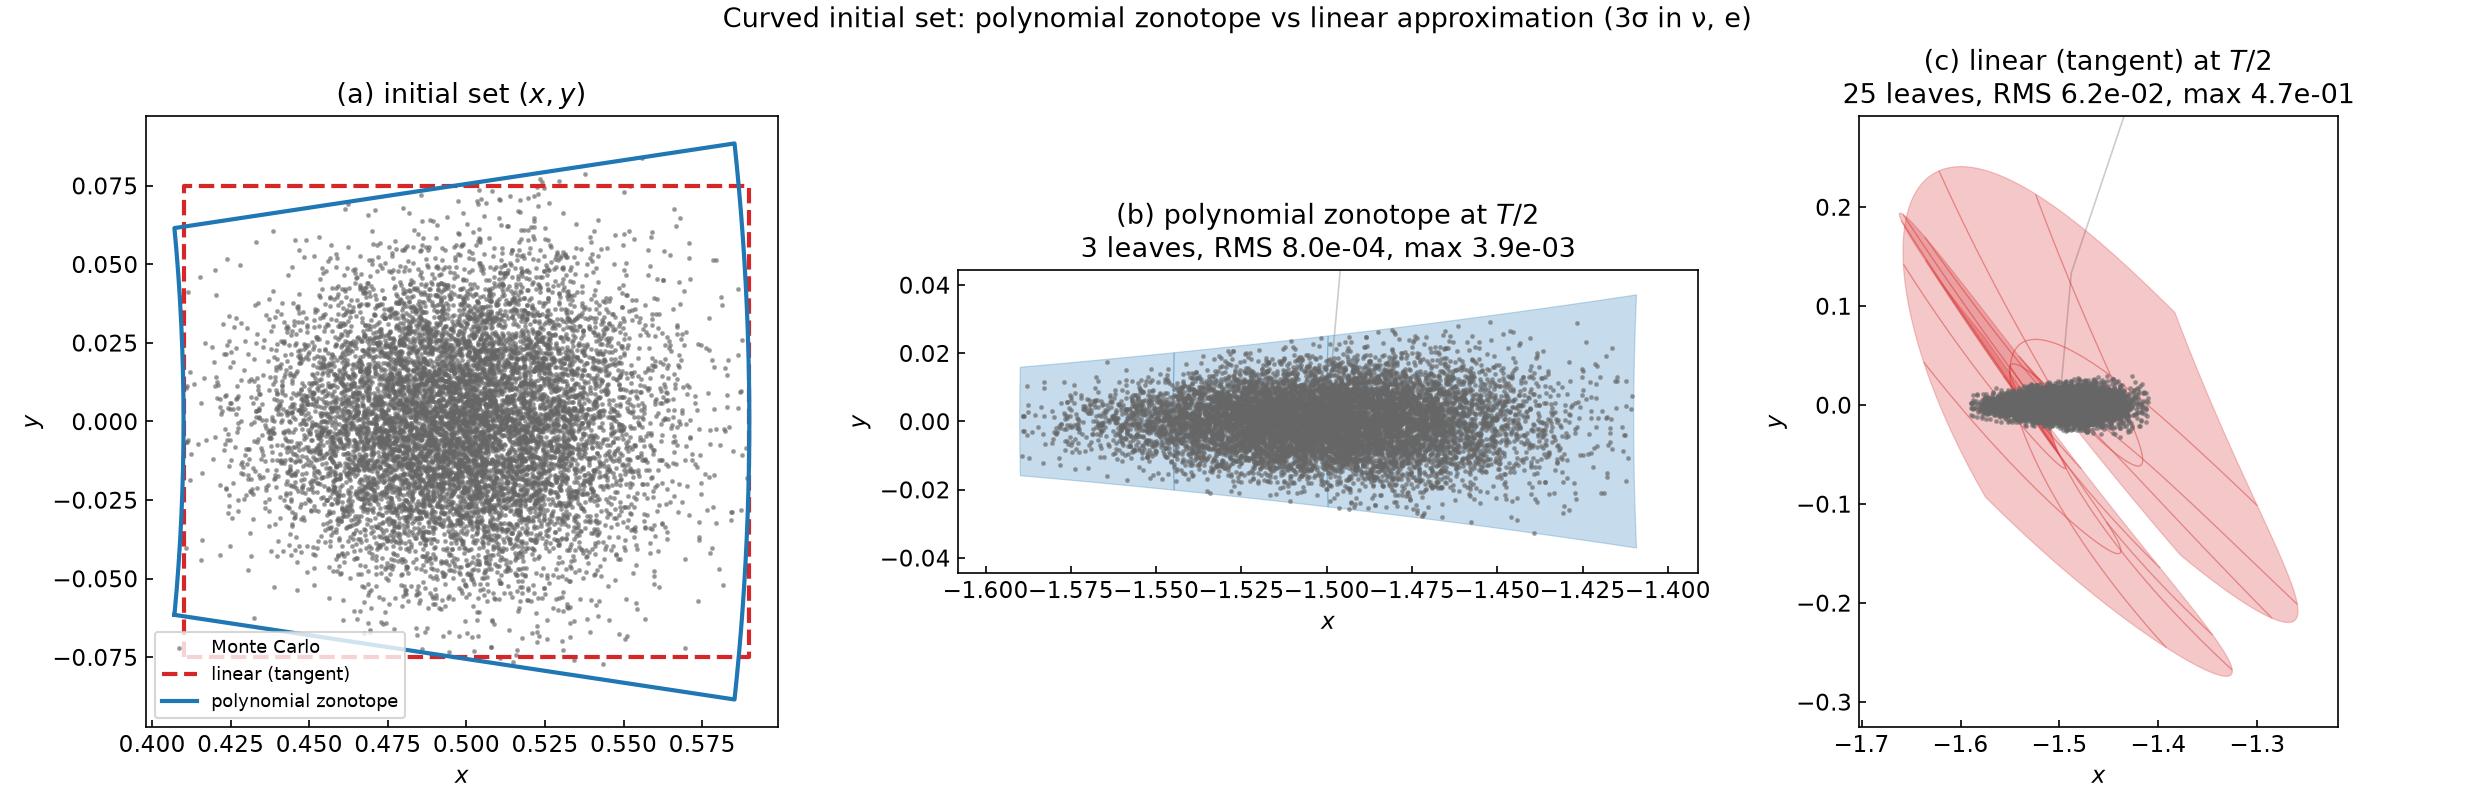
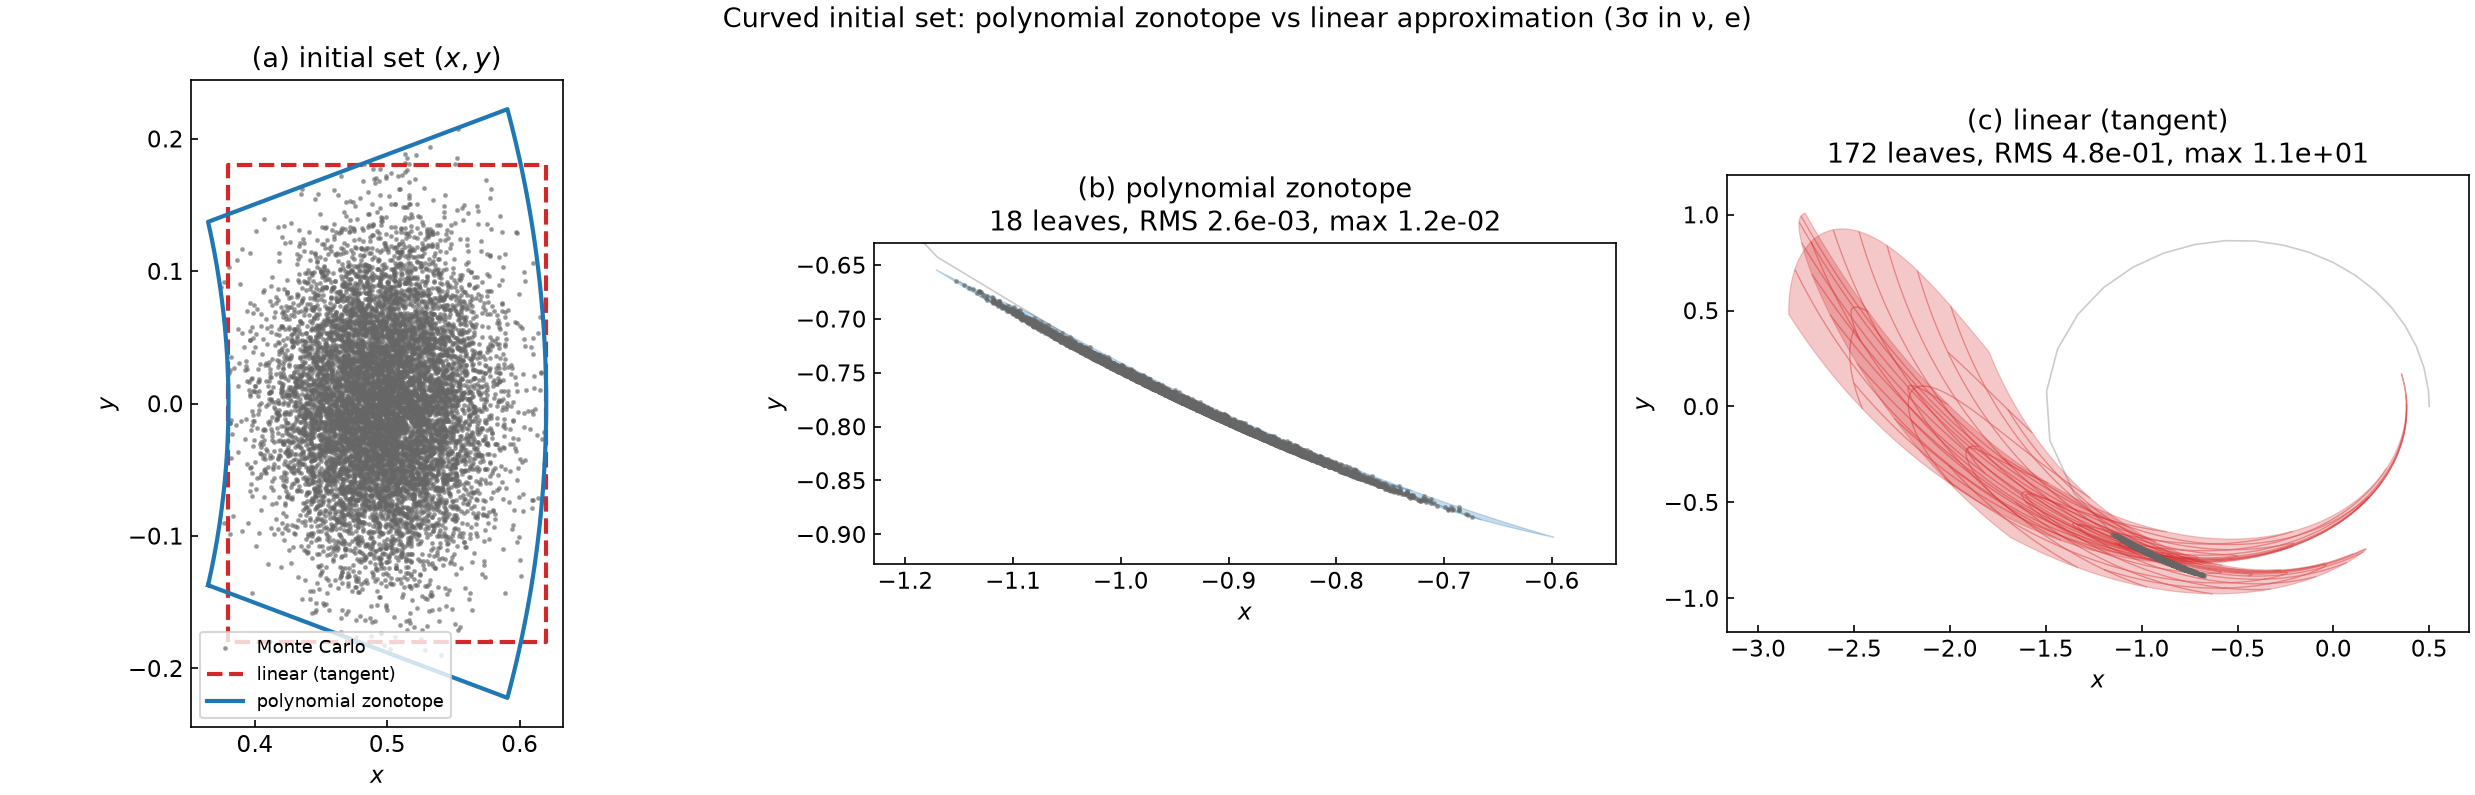
Scale up the curved poly-zonotope example and sharpen the linear contrast
Bigger initial set: a 3σ Gaussian in (true anomaly ±21°, eccentricity
e∈[0.38,0.62]) propagated to 0.75 T, so ADS makes a real tiling (18 curved
leaves) like the oriented-zonotope examples.

Keeps the comparison against the linear (tangent) representation and makes the
geometric reason explicit in the tutorial: an affine image of a box is always a
flat parallelotope, agreeing with the curved set only to first order at the
centre; at 3σ the dropped curvature is the same order as the spread itself, so
the linear set sits on the tangent and the flow amplifies it into a smear.

Results (10000-sample Monte Carlo): curved 18 leaves RMS 2.6e-3 (max 1.2e-2)
vs linear 172 leaves RMS 4.8e-1 (max 1.1e1). Tutorial, module note, plot
labels, and figure updated.

Claude-Session: https://claude.ai/code/session_01SpqyHyWZwup7W4RW2yjGdN

diff --git a/examples/two_body/poly_zonotope.cpp b/examples/two_body/poly_zonotope.cpp
@@ -1,19 +1,25 @@
 // =============================================================================
 // examples/two_body/poly_zonotope.cpp
 //
-// A *curved* initial-condition set propagated as a polynomial zonotope.
+// A *curved* initial-condition set propagated as a polynomial zonotope, and why
+// a linear representation cannot do the same job.
 //
 // The uncertainty is a 3σ Gaussian in two orbital parameters — true anomaly ν
 // (where along the orbit) and eccentricity e (orbit shape). In Cartesian state
-// that uncertainty is not an ellipse but a **bent** set (a banana), because the
-// element→Cartesian map is nonlinear. Expanding that map as a DA gives a
-// genuine polynomial-zonotope initial set, carried as a tax::ads::PolyZonotope
-// domain and propagated through ADS.
+// that uncertainty is a **bent 2-manifold**: every (ν, e) maps to a coupled
+// (x, y, vx, vy) on a valid orbit. The element→Cartesian map is nonlinear, so
+// the set is a banana, not a parallelotope.
 //
-// We compare against the **linear** picture — the tangent ellipse (first-order
-// element→Cartesian map) propagated the same way — and validate both against
-// 10000 Monte-Carlo samples drawn from the element-space Gaussian. The curved
-// polynomial zonotope tracks the cloud; the linear ellipse misses the tails.
+//   * PolyZonotope (curved): bake the full element→Cartesian map (degree ≥ 2)
+//     into the initial DA state, so ADS starts from the true curved set.
+//   * Linear (tangent): keep only the first-order map c + J·ξ — the parallelotope
+//     a covariance / STM gives. An affine image of a box is always flat, so it
+//     agrees with the curved set only to first order at the centre; at 3σ the
+//     curvature it drops is the same order as the spread itself.
+//
+// Both are propagated to 0.75 T and validated against 10000 Monte-Carlo samples
+// drawn from the element-space Gaussian. The curved set tracks the cloud; the
+// linear one sits on the tangent and is amplified by the flow into a smear.
 //
 // Run:    ./two_body_poly_zonotope
 // Writes: poly_zonotope.json   (plot with plot_two_body_poly_zonotope.py)
@@ -44,9 +50,10 @@ using Vec4 = tax::la::VecNT< 4, double >;
 using V2 = tax::la::VecNT< 2, double >;
 using PZ = tax::ads::PolyZonotope< double, P, M, tax::storage::Dense, D >;
 
-// 3σ half-widths of the (ν, e) Gaussian — ξ = ±1 maps to ±3σ.
-constexpr double kSigNu = 0.05;        // 1σ true anomaly [rad]
-constexpr double kSigE = 0.03;         // 1σ eccentricity
+// 3σ half-widths of the (ν, e) Gaussian — ξ = ±1 maps to ±3σ. A sizeable set
+// (≈ ±21° in anomaly, e ∈ [0.38, 0.62]) so ADS makes a real tiling.
+constexpr double kSigNu = 0.12;        // 1σ true anomaly [rad]
+constexpr double kSigE = 0.04;         // 1σ eccentricity
 constexpr double kE0 = kEcc;           // nominal e = 0.5
 constexpr double kNu3 = 3.0 * kSigNu;  // box half-width in ν
 constexpr double kE3 = 3.0 * kSigE;    // box half-width in e
@@ -80,7 +87,9 @@ DAState curvedMap()
     return m;
 }
 
-// Degree-1 (tangent) approximation of a curved map: keep centre + Jacobian·ξ.
+// Degree-1 (tangent) part of a curved map: centre + Jacobian·ξ. An affine image
+// of the box — the best linear / covariance representation, and a parallelotope
+// (flat) by construction, so it cannot bend with the true set.
 DAState linearize( const PZ& z )
 {
     const auto J = z.jacobian();  // D×M
@@ -102,9 +111,20 @@ DAState linearize( const PZ& z )
 
 // (x, y) boundary image of a map over the unit-square factor boundary.
 std::array< double, 2 > toBox2( double a, double b ) { return { a, b }; }
+Polygon mapBoundary( const DAState& m, const std::vector< std::array< double, 2 > >& bnd )
+{
+    Polygon p;
+    for ( const auto& ab : bnd )
+    {
+        const V2 d{ ab[0], ab[1] };
+        p.x.push_back( m( 0 ).eval( d ) );
+        p.y.push_back( m( 1 ).eval( d ) );
+    }
+    return p;
+}
 
-// Best-fit leaf lookup + flow-map evaluation for a physical IC, returning the
-// predicted (x, y). Uses each leaf's linear inverse (leaves are small).
+// Best-fit leaf lookup + flow-map evaluation for a physical IC → predicted
+// (x, y). Each leaf's curved map is inverted to first order (leaves are small).
 template < class Tree >
 V2 predictXY( const Tree& tree, const Vec4& ic )
 {
@@ -124,23 +144,11 @@ V2 predictXY( const Tree& tree, const Vec4& ic )
     }
     return out;
 }
-
-Polygon mapBoundary( const DAState& m, const std::vector< std::array< double, 2 > >& bnd )
-{
-    Polygon p;
-    for ( const auto& ab : bnd )
-    {
-        const V2 d{ ab[0], ab[1] };
-        p.x.push_back( m( 0 ).eval( d ) );
-        p.y.push_back( m( 1 ).eval( d ) );
-    }
-    return p;
-}
 }  // namespace
 
 int main()
 {
-    const double t_final = 0.5 * kPeriod;
+    const double t_final = 0.75 * kPeriod;
     const auto boundary = unitSquareBoundary( 48 );
 
     tax::ode::IntegratorConfig< double > cfg;
@@ -150,7 +158,7 @@ int main()
     const PZ pz_curved = PZ::fromMap( curvedMap() );
     const PZ pz_linear = PZ::fromMap( linearize( pz_curved ) );
 
-    // Initial sets in (x, y): the bent polynomial zonotope vs its tangent.
+    // Initial sets in (x, y): the bent polynomial zonotope vs its flat tangent.
     const Polygon ic_curved = mapBoundary( pz_curved.map, boundary );
     const Polygon ic_linear = mapBoundary( pz_linear.map, boundary );
 
@@ -260,7 +268,7 @@ int main()
     writeJsonArray( out, reference.cols[1] );
     out << " }\n}\n";
 
-    printBanner( "two_body/poly_zonotope — curved initial set (orbit-element Gaussian)",
+    printBanner( "two_body/poly_zonotope — curved set vs linear (tangent)",
                  { { "factors", "true anomaly nu, eccentricity e" },
                    { "3-sigma (nu,e)", std::to_string( kNu3 ) + ", " + std::to_string( kE3 ) },
                    { "leaves", std::to_string( tree_curved.done().size() ) + " (curved) vs " +

diff --git a/examples/plot/plot_two_body_poly_zonotope.py b/examples/plot/plot_two_body_poly_zonotope.py
@@ -5,10 +5,10 @@ Usage:
     python3 plot_two_body_poly_zonotope.py [--data DIR] [--out DIR]
 
 Produces two_body_poly_zonotope.png with three panels:
-    (a) the initial set in (x, y): the curved polynomial zonotope vs its tangent
-        (linear) approximation, over the 10000-sample cloud;
-    (b) propagated to T/2 — curved leaves over the cloud (tracks it);
-    (c) propagated to T/2 — linear leaves over the cloud (misses the tails).
+    (a) the initial set in (x, y): the curved polynomial zonotope vs its linear
+        (tangent) approximation, over the 10000-sample cloud;
+    (b) propagated — curved leaves track the cloud;
+    (c) propagated — linear leaves smear far past it (a flat set cannot bend).
 """
 
 import argparse
@@ -74,10 +74,10 @@ def main():
     fig, axes = plt.subplots(1, 3, figsize=(16.5, 5.3), layout="constrained")
     plot_ic(axes[0], d)
     plot_prop(axes[1], d, "leaves_curved", CURVED,
-              f"(b) polynomial zonotope at $T/2$\n{d['n_curved']} leaves, "
+              f"(b) polynomial zonotope\n{d['n_curved']} leaves, "
               f"RMS {d['rms_curved']:.1e}, max {d['max_curved']:.1e}")
     plot_prop(axes[2], d, "leaves_linear", LINEAR,
-              f"(c) linear (tangent) at $T/2$\n{d['n_linear']} leaves, "
+              f"(c) linear (tangent)\n{d['n_linear']} leaves, "
               f"RMS {d['rms_linear']:.1e}, max {d['max_linear']:.1e}")
     fig.suptitle("Curved initial set: polynomial zonotope vs linear approximation (3σ in ν, e)",
                  fontsize=13)

diff --git a/docs/tutorials/polynomial_zonotope.md b/docs/tutorials/polynomial_zonotope.md
@@ -110,38 +110,51 @@ anomaly** \(\nu\) (where along the orbit) and **eccentricity** \(e\) (its shape)
 The element→Cartesian map is nonlinear, so in Cartesian state that uncertainty is
 a **banana**, not an ellipse.
 
-[`tax::ads::PolyZonotope`](../ads/zonotope.md) carries the initial map as a
-*polynomial* of the factors,
-\(\mathbf{x}_0(\boldsymbol{\xi}) = \mathbf{c} + \sum_i (\prod_k \xi_k^{E_{ki}})\,\mathbf{g}_i\),
-instead of the linear \(\mathbf{c} + G\boldsymbol{\xi}\). Because the ADS
-pipeline is generic over the domain, a curved set propagates and subdivides like
-any other — the only new ingredient is that the *t₀* geometry is itself a DA map,
-built with ordinary TE arithmetic (`examples/two_body/poly_zonotope.cpp`).
+**Why not just a linear set?** The image of a box under an *affine* map
+\(\mathbf{c} + G\boldsymbol{\xi}\) is always a **parallelotope** — flat faces,
+straight edges, symmetric about \(\mathbf{c}\). That is all a linear
+representation (a covariance / STM ellipse) can ever be. Expanding the true map
+about the centre, \(\mathbf{x}_0(\boldsymbol{\xi}) = \mathbf{c} + J\boldsymbol{\xi}
++ \tfrac12\boldsymbol{\xi}^\top H\boldsymbol{\xi} + \dots\), the linear set keeps
+only the first-order term and sits on the tangent plane; the real set bends off
+it by the curvature term. At **3σ** the factor \(\boldsymbol{\xi}\sim O(1)\), so
+that curvature is the *same order* as the spread — not a small correction.
 
-We take a **3σ** Gaussian in \((\nu, e)\) and compare the curved polynomial
-zonotope against its **tangent (linear) approximation** — the ellipse a
-covariance / STM gives — propagating both to \(t = T/2\) and validating against
-10000 Monte-Carlo samples drawn from the element-space Gaussian.
+[`tax::ads::PolyZonotope`](../ads/zonotope.md) keeps the polynomial terms,
+\(\mathbf{x}_0(\boldsymbol{\xi}) = \mathbf{c} + \sum_i (\prod_k \xi_k^{E_{ki}})\,\mathbf{g}_i\),
+so it bends to follow the manifold. Because the ADS pipeline is generic over the
+domain, that curved set propagates and subdivides like any other — the only new
+ingredient is that the *t₀* geometry is itself a DA map, built with ordinary TE
+arithmetic (`examples/two_body/poly_zonotope.cpp`).
+
+We take a sizeable **3σ** Gaussian in \((\nu, e)\) — \(\pm21^\circ\) in anomaly,
+\(e \in [0.38, 0.62]\) — and compare the curved polynomial zonotope against its
+**tangent (linear) approximation** — the ellipse a covariance / STM gives —
+propagating both to \(t = 0.75\,T\) and validating against 10000 Monte-Carlo
+samples drawn from the element-space Gaussian.
 
 ![Curved initial set vs linear approximation](img/two_body_poly_zonotope.png)
 
 * **(a)** At \(t_0\) the bend is mild — the polynomial zonotope (blue) and the
   tangent ellipse (red) both roughly bound the cloud.
-* **(b)** Propagated, the curved set tracks the Monte-Carlo cloud tightly with
-  **3 leaves** (RMS \(8\times10^{-4}\)).
-* **(c)** The linear initial set, propagated, **smears far past the cloud** — its
-  wrong \(t_0\) shape is amplified by the flow into a gross over-approximation
-  (RMS \(6\times10^{-2}\), **max \(0.47\)**), and it even costs *more* leaves (25)
-  trying to chase the distortion.
+* **(b)** Propagated, the curved set tracks the Monte-Carlo cloud tightly,
+  tiling the bent arc with **18 leaves** (RMS \(2.6\times10^{-3}\)).
+* **(c)** The linear initial set, propagated, **smears ~10× past the cloud** —
+  its wrong \(t_0\) shape is amplified by the flow into a gross
+  over-approximation (RMS \(0.48\), **max \(11\)**), and it costs **172 leaves**
+  chasing the distortion.
 
 | Initial set | Leaves | RMS error | Max error |
 |-------------|-------:|----------:|----------:|
-| **Polynomial zonotope (curved)** | **3** | **8 × 10⁻⁴** | **3.9 × 10⁻³** |
-| Linear (tangent ellipse) | 25 | 6 × 10⁻² | 4.7 × 10⁻¹ |
+| **Polynomial zonotope (curved)** | **18** | **2.6 × 10⁻³** | **1.2 × 10⁻²** |
+| Linear (tangent ellipse) | 172 | 4.8 × 10⁻¹ | 1.1 × 10¹ |
 
-At 3σ the curvature is not a correction — it is the difference between a right
-answer and a 50%-error one. Representing the initial set as a polynomial zonotope
-gets it right *and* cheaper.
+The curved orbit-manifold set stays compact — 18 leaves wrap the whole bent arc —
+while the linear approximation needs ~10× more leaves *and* is wrong. Push the
+set wider or longer and the tangent set reaches near-collision states that blow
+up entirely; the polynomial zonotope, anchored on valid orbits, does not. At 3σ
+the curvature is not a correction — it is the difference between a right answer
+and a useless one.
 
 ---
 

diff --git a/docs/ads/zonotope.md b/docs/ads/zonotope.md
@@ -109,8 +109,9 @@ returns the map. Each leaf carries its t₀ map (the curved geometry) in additio
 to the propagated payload, so memory per leaf is ~2× the linear case;
 `contains()` uses a first-order inverse and is not on the propagation path. See
 `examples/two_body/poly_zonotope.cpp` for a 3σ orbit-element set where the curved
-representation tracks Monte Carlo to RMS ~8×10⁻⁴ while its linear (tangent)
-approximation smears to ~50% error.
+representation tracks Monte Carlo with 18 leaves (RMS ~2.6×10⁻³) while its linear
+(tangent) parallelotope — flat by construction — smears into 172 leaves at
+RMS ~0.5 (max ~11).
 
 ## Adaptive orientation: aligning the frame to the flow
 